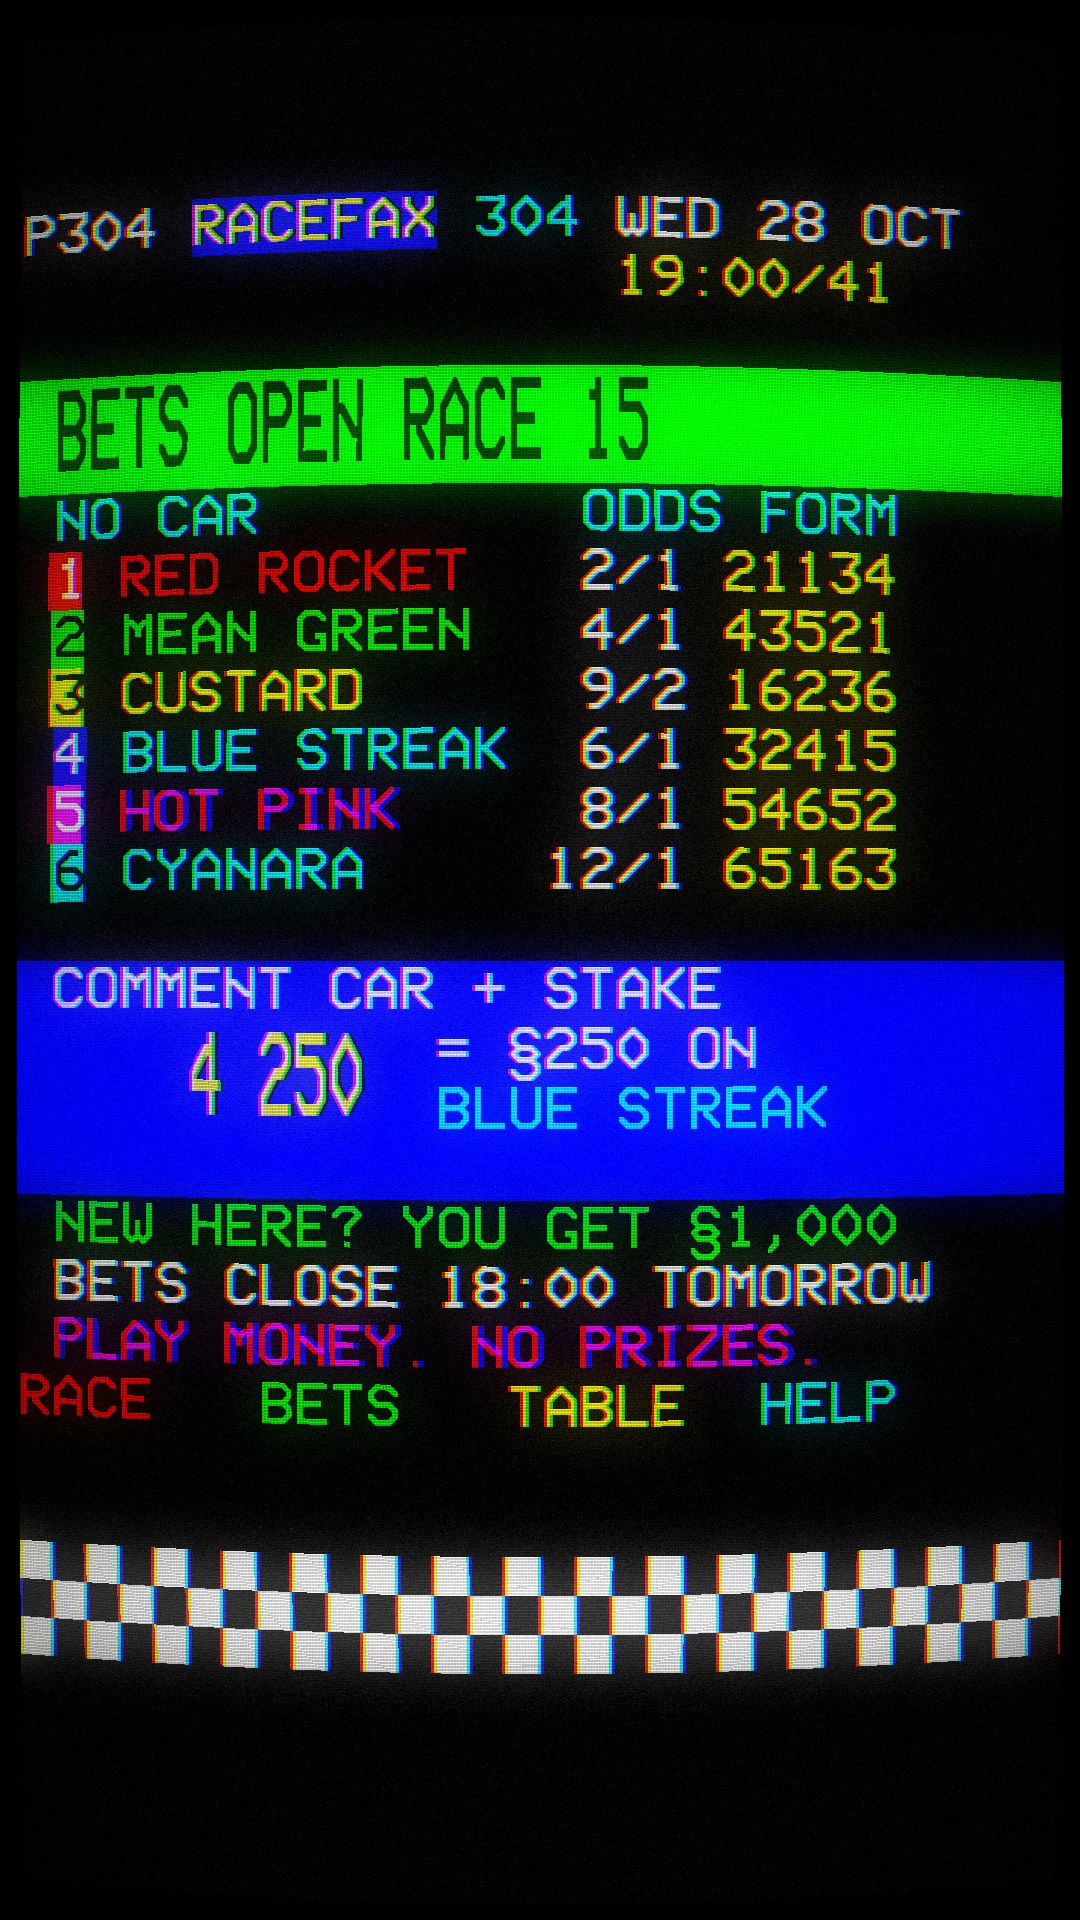
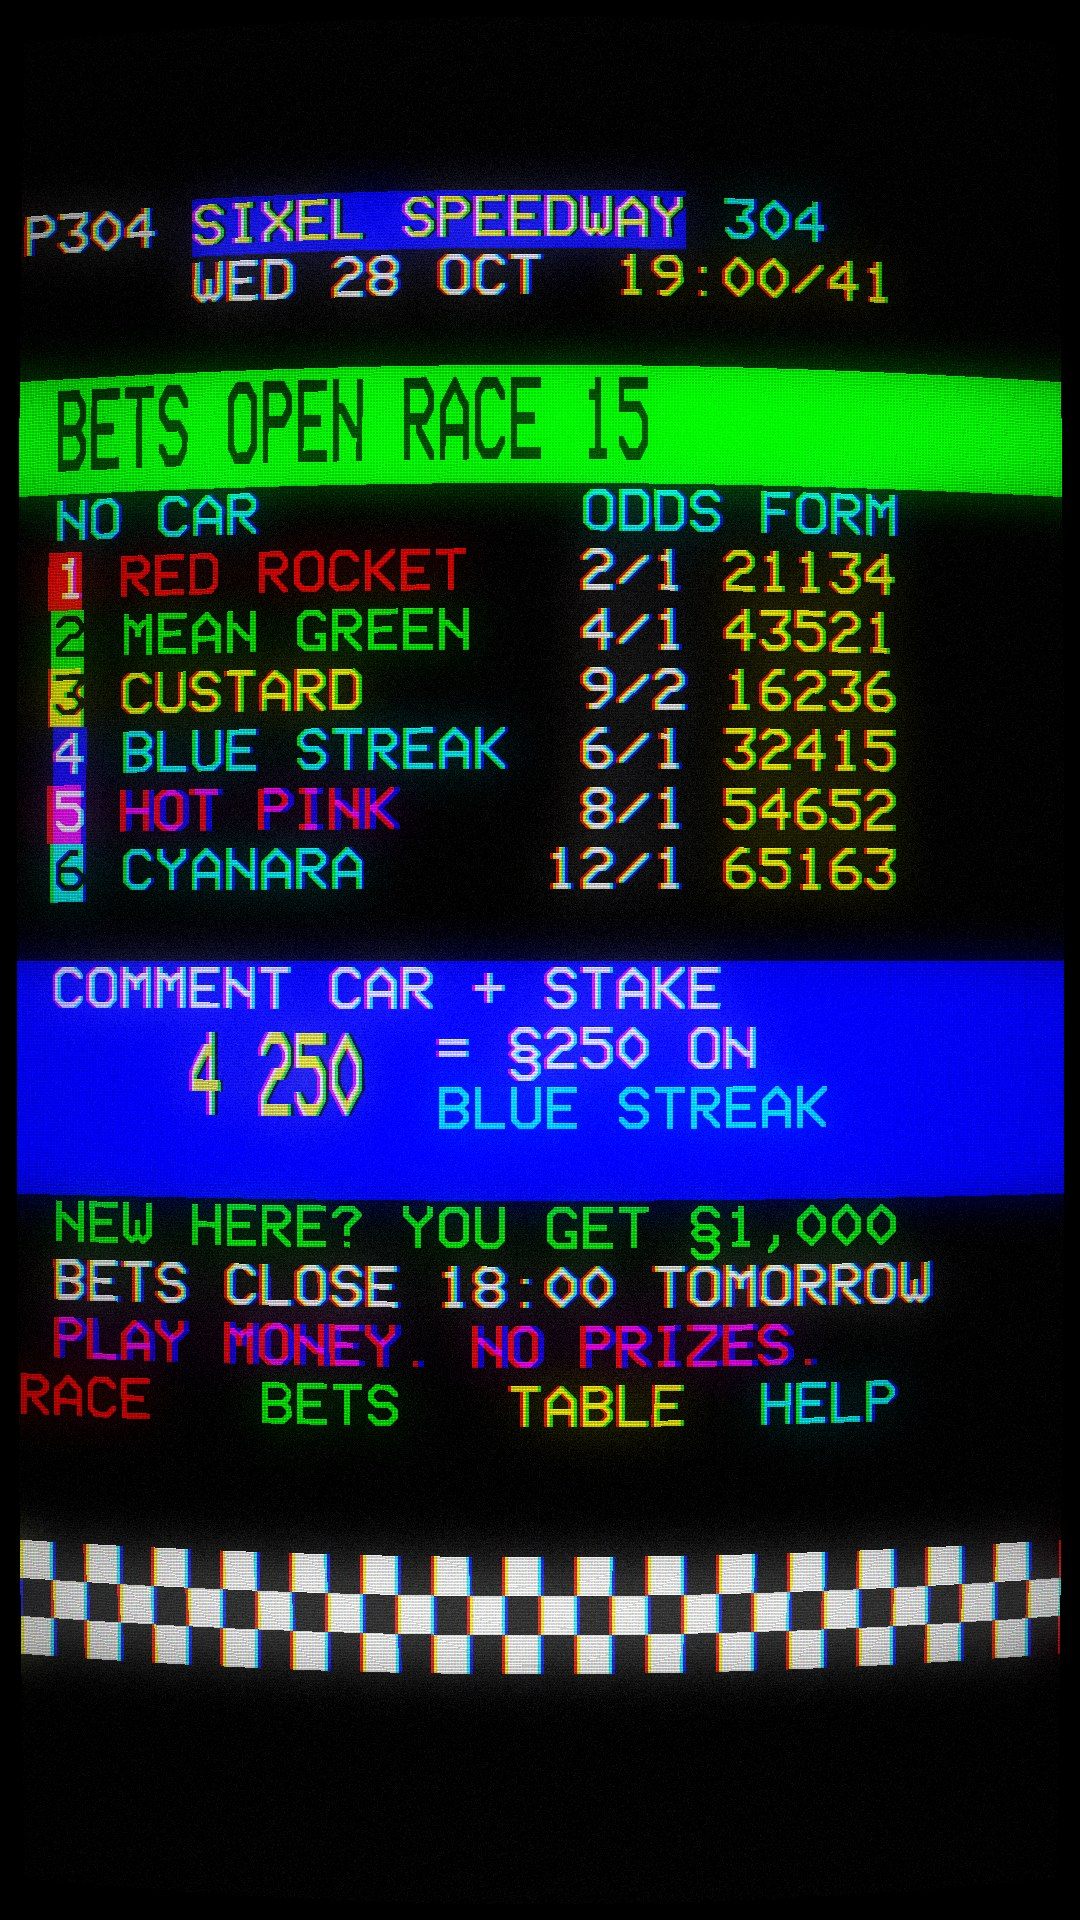
Racing plan: name it Sixel Speedway, bot replies to each bet with the balance left
Screens redrawn with the new header. The server checks the open post
every 15 minutes and replies under each bet with the stake, odds,
balance left and the bets domain, through a paced queue with an hourly
cap and varied wording.

Claude-Session: https://claude.ai/code/session_01LcW4GxAuFzw6T5FuaFPeaC

Changed region(s): [[0.3056, 0.0938, 0.7639, 0.1562], [0.1528, 0.0938, 0.275, 0.1562], [0.7944, 0.0938, 0.8861, 0.1562]]

diff --git a/docs/racing/mockup.py b/docs/racing/mockup.py
@@ -1,4 +1,4 @@
-"""Mock-up screens for the RACEFAX channel (docs/RACING_PLAN.md). Not app code: a throwaway
+"""Mock-up screens for the Sixel Speedway channel (docs/RACING_PLAN.md). Not app code: a throwaway
 sketch of the look, so the plan has pictures. Run: python docs/racing/mockup.py [--clip]
 
 A portrait teletext page: 30 columns x 32 rows of 36x60 px cells (the real 12:20 cell, scaled),
@@ -56,11 +56,11 @@ class Page:
                 if ch in pal:
                     self.px(x + i, y + j, pal[ch], sep)
 
-    def header(self, page, title="RACEFAX", clock="19:00/07"):
+    def header(self, page, title="SIXEL SPEEDWAY", clock="19:00/07"):
         self.text(0, 3, f"P{page}", WH)
         self.text(5, 3, title, Y, B)
         self.text(5 + len(title), 3, f" {page}", C)
-        self.text(17, 3, "WED 28 OCT", WH)
+        self.text(5, 4, "WED 28 OCT", WH)
         self.text(17, 4, clock, Y)
 
     def footer(self):

diff --git a/docs/RACING_PLAN.md b/docs/RACING_PLAN.md
@@ -1,4 +1,4 @@
-# Third channel: teletext car racing you bet on (name TBD)
+# Third channel: Sixel Speedway, teletext car racing you bet on
 
 Plan only, no code yet. This is a daily ~35 s vertical video in the style of a 1980s teletext page
 (Ceefax/Oracle): blocky mosaic graphics, the 8 teletext colours, a CRT with scan lines and the odd
@@ -12,17 +12,9 @@ glitch, and synth bleeps only, with no voice. Each video:
 Everyone starts with **§1,000** of play money the first time the bot sees them. Balances persist,
 every known player gets a **weekly bonus**, and once a week (Sunday) the video adds a **league table**.
 
-**Name: to be chosen.** "RACEFAX" (in the mock-ups) is out because an existing horse racing game
-uses it, and Ceefax/BBC branding is out too. Shortlist (a quick web search found no game using
-any of the first four; that's not a trademark search):
-
-| Name | Why |
-|---|---|
-| **TURBOTEXT** | teletext + turbo; reads instantly as a page header |
-| **SIXEL SPEEDWAY** | sixels are the teletext mosaic blocks the cars are made of |
-| **MOSAIC MOTORS** | same idea, friendlier word |
-| **PIXEL PADDOCK** | the paddock is where you study form before betting |
-| TELETURBO, CHEQUERED PAGE, P300 GRAND PRIX | backups |
+**Name: Sixel Speedway.** Sixels are the 2×3 teletext mosaic blocks the cars are drawn with.
+A quick web search found no game using the name, but that wasn't a trademark search. RACEFAX
+was dropped because an existing horse racing game uses it. No Ceefax or BBC branding.
 
 ## Example screens
 
@@ -48,13 +40,13 @@ way real teletext did, and the clock ticks every second.
 
 | # | Question | Recommendation |
 |---|---|---|
-| 1 | Name and accounts | **TBD** (shortlist above), Instagram only at launch, like the adventure channel. Add YouTube Shorts later; it's a per-channel `platforms` switch. Balances are per platform account (an Instagram and a YouTube account can't be linked). |
+| 1 | Name and accounts | **Decided: Sixel Speedway.** Instagram only at launch, like the adventure channel. Add YouTube Shorts later; it's a per-channel `platforms` switch. Balances are per platform account (an Instagram and a YouTube account can't be linked). |
 | 2 | Cadence | **Decided: daily at 19:00** Europe/London. Bets close **18:00 the next day**, and the video renders right after. Chosen to keep clear of the other channels' work (adventure counts votes at 08:00 and posts at 09:00; the quiz posts at 12:00), so renders never overlap. |
 | 3 | Which comment counts | **Decided: every comment is its own bet.** Three comments `4 250`, `2 100`, `6 50` are three bets. They're taken in the order they were posted until the balance runs out (§3). One comment = one bet; a comment naming two cars is rejected. |
 | 4 | Bet with no amount (`4`) | **§100**. Stakes over the balance are cut to the balance. `all` / `all in` stakes everything. The minimum is §10. |
 | 5 | Weekly bonus | **Decided: every Sunday, every known player gets §100, plus §50 for each video they commented on that week.** This replaces the relief fund: nobody stays bust for long, and commenting is rewarded. |
 | 6 | League table | **Decided: all-time balance, top 10, on Sundays**, plus a "climber of the week" line so new players have something to win. |
-| 7 | Telling people their balance | **Decided: a bets page on its own domain** (§7), and only there: name lookup with balance and bet history, the league table, and each race's seed check. The bot doesn't reply to bets (which would hit Instagram's spam limits at a few hundred players); the bio and every caption point at the domain. |
+| 7 | Telling people their balance | **Decided: the bot replies to every bet** with what it took and the balance left, and points at **the bets domain** (§7). The domain is the only place with name lookup, bet history, the league table and each race's seed check. Replies are paced and worded a few ways so Instagram doesn't treat them as spam (§3). |
 | 8 | Provably fair | **Decided: yes.** The caption carries `race 15 seal: 3f9a…` (a SHA-256 of the secret seed), and the next caption reveals the seed. Anyone can re-run the race with the open code. It's cheap and it answers "it's rigged". |
 | 9 | Cars | **A fixed roster of six**, one per teletext colour: 1 RED ROCKET, 2 MEAN GREEN, 3 CUSTARD, 4 BLUE STREAK, 5 HOT PINK, 6 CYANARA. They become characters, and their form means something. White is kept for a guest or "ghost" car on special days. |
 
@@ -88,8 +80,31 @@ Every template is true either way, so the hook never lies about the outcome.
   platform + account id, with the handle saved for display. They start with §1,000.
 - **Betting**: comment under the latest video. **Every comment is a separate bet**, so backing
   three cars takes three comments. The bets are taken in the order they were posted: each stake is
-  cut to whatever balance is left, and once it's at zero, later comments that day don't count. An
-  edited comment counts as it reads at the cutoff. The parser is in the style of
+  cut to whatever balance is left, and once it's at zero, later comments that day don't count. A
+  comment deleted before the cutoff is no bet (on YouTube, an edited one counts as it reads then;
+  Instagram comments can't be edited).
+- **Bet replies**: the server checks the open post for new comments every 15 minutes until the
+  cutoff and replies under each bet, for example:
+  > ✅ §250 on 4 BLUE STREAK at 6/1. §750 left. Every bet and balance: sixelspeedway.example
+  - A stake cut to the balance says so: "Only §120 left, so it's §120 on 4 BLUE STREAK at 6/1."
+  - With nothing left: "No § left for race 15. Sunday's bonus is §100 plus §50 for each video you
+    comment on."
+  - A comment that looks like a bet but doesn't parse (a number and something car-like) gets one
+    "Didn't catch that: comment a car and a stake, like `4 250`" per player per race. Ordinary
+    chat gets no reply.
+  - A bet under an older video after its cutoff gets "Betting on race 14 has closed; today's video
+    takes bets on race 15", once per player.
+  - Opted-out viewers get no reply, and their comments aren't read.
+- **What a reply guarantees**: the reply's balance is worked out from the bets seen so far, in
+  comment order. Settlement at the cutoff is the real thing: it re-reads everything in posting
+  order, so a comment the API returned late or a deleted bet can change it. The race page on the
+  domain shows the final word. Odds are fixed when a race opens, so the odds in a reply never
+  change.
+- **Pacing**: replies go out through a queue, a few seconds apart, with an hourly cap
+  (`RACING_REPLY_PER_HOUR`). Each kind of reply has several wordings, because many identical
+  replies look like spam. Instagram comments can't carry clickable links, so the domain is plain
+  text there; on YouTube it's a link. If the cap is reached, the rest of the bets still count;
+  they just don't get a reply. The parser is in the style of
   `app/adventure/votes.py`, and it accepts `4 250`, `#4 250`, `250 on 4`, `car 4 £250`,
   `blue streak 300`, `all in on 3`, `4 all` and `4` (= §100). It rejects anything that names two
   cars, or a number with no clear car.
@@ -168,10 +183,11 @@ No ElevenLabs credits are spent, so this channel doesn't touch the shared voice 
 It's a new channel and content kind, alongside `main` (quiz) and `adventure`:
 
 ```
-channels.py      RACING = "racing" → Channel("racing", NAME, "racing", settings.racing_handle, "19:00", …)
+channels.py      RACING = "racing" → Channel("racing", "Sixel Speedway", "racing", settings.racing_handle, "19:00", …)
 app/racing/
   sim.py         seeded race sim, Monte-Carlo odds, car stat drift, seal/reveal
   bets.py        comment → (car, stake) parser (pattern of adventure/votes.py)
+  replies.py     bet replies: wording variants, paced queue, hourly cap
   ledger.py      players, append-only ledger, balances, settle(), weekly bonus, league table
   hooks.py       hook templates chosen from race data
   jobs.py        the daily cycle (pattern of adventure/jobs.py)
@@ -186,6 +202,7 @@ DATA_DIR/racing/ players.json · ledger.jsonl · races/{n}.json (seed, stats, be
 **Daily cycle** (all on the server's scheduler, with no AI step):
 
 ```
+every 15 min while race N is open: read new comments on video N-1 → reply to bets (queue)
 18:00  close betting on race N: read comments on video N-1 (cliffhanger.read_comments)
        → parse bets → new players get §1,000 → debit stakes
        → run race N from its sealed seed → settle → pick hook
@@ -205,7 +222,7 @@ legal pages (built from the channel registry, so the new channel is listed autom
 `GET /racing/races/{n}`, `GET /racing/players?q=`, and `POST /racing/dry-run` (render tomorrow's
 video from today's comments without settling anything).
 
-**The bets domain**: a second domain (e.g. `turbotext.example`) points at the same Easypanel app.
+**The bets domain**: a second domain (e.g. `sixelspeedway.example`) points at the same Easypanel app.
 A small middleware checks the `Host` header against `RACING_DOMAIN`:
 
 - On the bets domain, **only** the racing public pages exist, and everything else is a 404 there
@@ -256,8 +273,8 @@ minutes a video; if numpy can't get there, the CRT moves to an ffmpeg filter cha
 | M3 | `racing/bets.py` + `ledger.py`: parser, settlement in comment order, weekly bonus, league table | parser table tests (accepts/rejects); ledger replay = balances |
 | M4 | Sound | engines, events and bed mixed; −14 LUFS |
 | M5 | Channel wiring: `channels.py`, `jobs.py`, endpoints, Discord previews, dry run | a week of dry runs on fake comments, posting off |
-| M6 | Bets domain (host-checked middleware, lookup, race pages with seed check, its own privacy/terms), privacy policy + explainer | other paths 404 on the bets domain; racing pages 404 on the main one; opt-out works end to end |
-| M7 | Launch: pick the name, add the domain in Easypanel, connect the account; post **Race 0**, a rules video ("comment a car and a stake, you start with §1,000"); race 1 the next day | the first real settlement posts |
+| M6 | Bet replies (15-min comment check, paced queue, wording variants), bets domain (host-checked middleware, lookup, race pages with seed check, its own privacy/terms), privacy policy + explainer | other paths 404 on the bets domain; racing pages 404 on the main one; opt-out works end to end |
+| M7 | Launch: register the domain and add it in Easypanel in Easypanel, connect the account; post **Race 0**, a rules video ("comment a car and a stake, you start with §1,000"); race 1 the next day | the first real settlement posts |
 
 ## 10. Risks
 
@@ -269,5 +286,8 @@ minutes a video; if numpy can't get there, the CRT moves to an ffmpeg filter cha
   parser improves.
 - **Whales and all-ins** dominate the table. That's acceptable, and it's part of the drama. The
   climber line and the weekly bonus keep new players interested.
+- **Reply limits**: Instagram doesn't publish a reply rate limit, and a new account replying a lot
+  can be restricted. Start with a low hourly cap, watch for "action blocked" errors (they go to
+  Discord and pause the queue for an hour), and raise the cap slowly. Bets never depend on replies.
 - **Comment spam for the bonus**: §50 is per *video* commented on, not per comment, so ten comments
   on one video still earn §50. Bets are what multiple comments are for.
